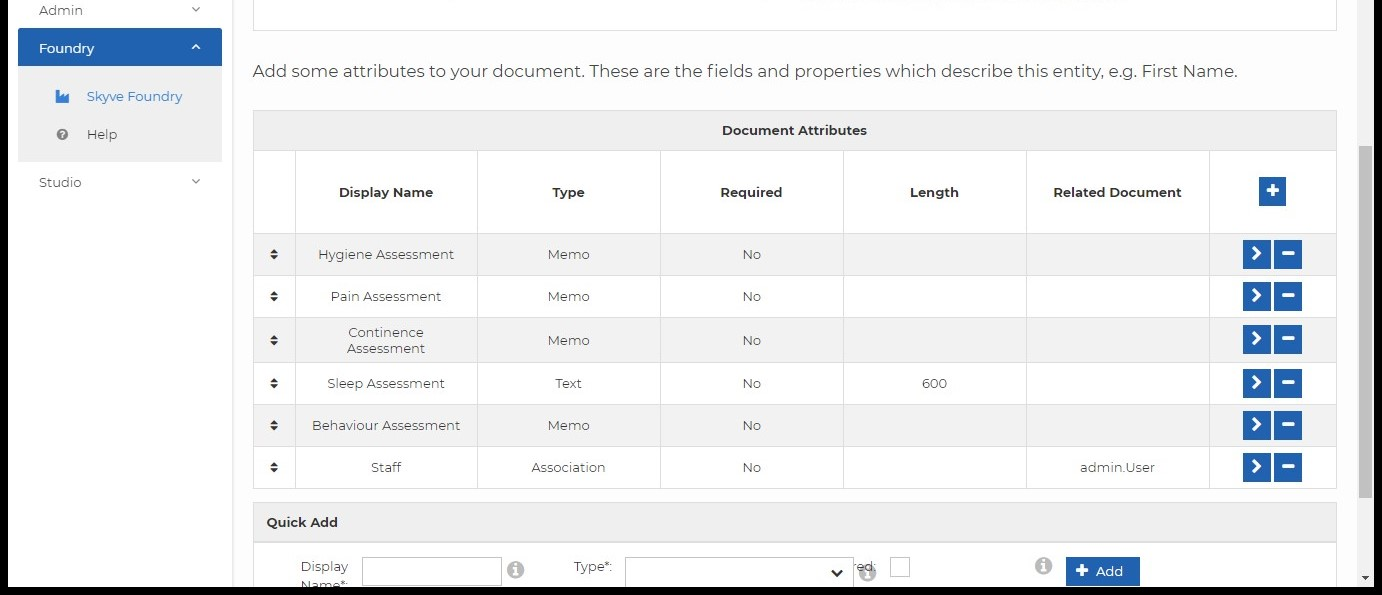
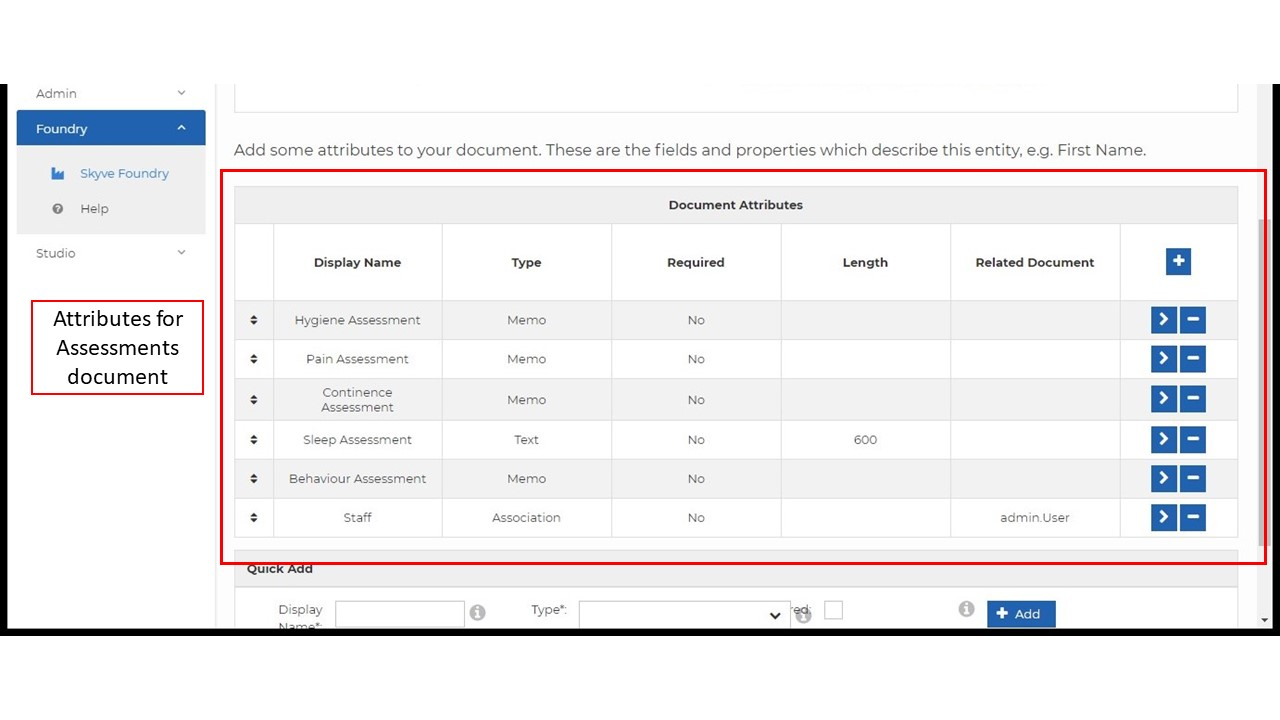
updated file

diff --git a/readme.md b/readme.md
@@ -1,9 +1,9 @@
-# agedCare Application Tutorial
+# Aged care Application Tutorial
 
 ### Contents
 
 - [1. Is This Tutorial Right For Me ?](https://github.com/seema-source/Aged-care/blob/master/readme.md#1-is-this-tutorial-right-for-me-)
-- [2. AgedCare App Overview](https://github.com/seema-source/Aged-care/blob/master/readme.md#2-agedcare-app-overview)
+- [2. Aged care App Overview](https://github.com/seema-source/Aged-care/blob/master/readme.md#2-Aged care-app-overview)
   - [Functionality overview](https://github.com/seema-source/Aged-care/blob/master/readme.md#functionality-overview)
   - [Low code App using Skyve Foundry](https://github.com/seema-source/Aged-care/blob/master/readme.md#low-code-app-using-skyve-foundry)
   - [Low-code Extensions](https://github.com/seema-source/Aged-care/blob/master/readme.md#low-code-extensions)
@@ -54,7 +54,7 @@
 - Skills You'll Need
 - Skills You'll Develop
 
-# 2. AgedCare App Overview
+# 2. Aged care App Overview
 
 This tutorial will talk about how to create an advanced application through the Enterprise Application Framework - [Skyve foundry](https://foundry.skyve.org/).
 
@@ -80,7 +80,7 @@ If your goal is limited to developing no-code applications using Foundry, you ma
 
 The second part of the tutorial will focus on Low code extension. In Low code extension, we can do some changes in XML files created by Skyve to extend the application functionality beyond point-and-click actions in Skyve foundry.
 
-In the next part of the tutorial, we will load our agedCare application created through Skyve foundry into an IDE- Integrated Development Environment (set of programming tools for writing an application). To extend its functionality using Skyve's Low code XML language.
+In the next part of the tutorial, we will load our Aged care application created through Skyve foundry into an IDE- Integrated Development Environment (set of programming tools for writing an application). To extend its functionality using Skyve's Low code XML language.
 
 In this part of the tutorial, we will edit and change the layout to the Patient, Assessment, and Facility documents.
 
@@ -90,13 +90,13 @@ If you believe that you already achieved what you want from this tutorial and yo
 
 In the third part of our tutorial, we will cover the Java extension-add custom built java code into the Skyve application to make your application more powerful.
 
-In this part, we will extend the functionality of the agedCare application using java code. We will add a few conditions and actions using java in our application so that only particular users can access particular Assessments related to each Patient.
+In this part, we will extend the functionality of the Aged care application using java code. We will add a few conditions and actions using java in our application so that only particular users can access particular Assessments related to each Patient.
 
 # 3. No-code Development
 
-In this section, we will go through the development of the agedCare application and will cover information about the Skyve framework and Skyve foundry in detail.
+In this section, we will go through the development of the Aged care application and will cover information about the Skyve framework and Skyve foundry in detail.
 
-This section also covers how to create and add different documents: Patient, Assessments, and Facility in the agedCare application and how to deploy an application in foundry.
+This section also covers how to create and add different documents: Patient, Assessments, and Facility in the Aged care application and how to deploy an application in foundry.
 
 ### 1. Getting Started
 
@@ -190,7 +190,51 @@ The attributes for Facility document as below:
 This document will follow the same steps we followed for Patient document. It will look like as below:
 
 ![Facility attributes](doc_src_img/chapter1/8.jpg "Facility attributes")
+
+#### 3. Define Assessments Document and it's attributes:
+
+The Assessment document will contain information about all the care assessments related to each patient.
+
+The attributes for Assessments document as below:
+
+| Attribute name        | Data Type |
+| --------------------- | --------- |
+| Hygiene Assessment    | Memo      |
+| Pain Assessment       | Memo      |
+| Continence Assessment | Memo      |
+| Sleep Assessment      | Memo      |
+| Behaviour Assessment  | Memo      |
+| Staff                 | Associate |
+
+Follow the same steps like Patient and Assessment documents. Assessment document look like as below.
+
 ![Assessment attributes](doc_src_img/chapter1/9.jpg "Assessment attributes")
+
+### Deploying your Aged care app
+
+Our Aged care application is almost ready, now the next step is to deploying our application to check how it look like. (Note: If you are using a free trail version, you can only deploy your application for an hours. To use the free version for another hour you need to redeploy it).
+
+There are following steps to deploy Aged care application as we created in foundry:
+
+1. Go to foundry and click on Aged care application
+
+![Deploy](doc_src_img/chapter4/1.jpg "Deploy")
+
+2. Click on Deloy tab and then click on Deploy, usually it take 2 minutes to deploy your application
+
+3. Next step is copy the deploy link and paste into a new brower tab
+
+   ![Deploy link](doc_src_img/chapter4/2.jpg "Deploy link")
+
+4. Log in with user "setup" and password "setup
+
+![SignIn](doc_src_img/chapter4/3.jpg "SignIn")
+
+Your application is ready to go...
+
+![app](doc_src_img/chapter4/4.jpg "app")
+
+Next, as i already mention after one hour we need to redeloy the application again for free trial version same as we have done in previously.
 
 ## 3. Collaboration
 
@@ -248,7 +292,7 @@ Before import your project in Eclipse, you need to download and install Eclipse 
 
 ## 4.2 Install and Configue Wildfly Server
 
-To run our agedCare application, we will need to install and configure for WildFly Server. Skyve works well on WildFly version 13+.
+To run our Aged care application, we will need to install and configure for WildFly Server. Skyve works well on WildFly version 13+.
 
 - ### Install Wildfly Server
   You can skip this step if WildFly Server is already installed on your system.
@@ -321,7 +365,7 @@ After downloading and installation of eclipse and server, the next step is add o
 
 1. Open the Eclipse in your system
 2. Click on window tab and click on show View, then other
-   ![Window](doc_src_img/chapter4/1.jpg "Window")
+   ![Window](doc_src_img/chapter5/1.jpg "Window")
 3. Select Git Repositoies and click on open
 
 #### 4.4 Import Project
